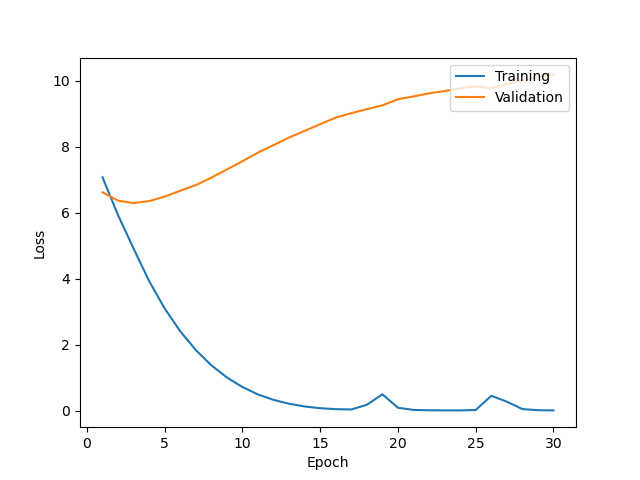
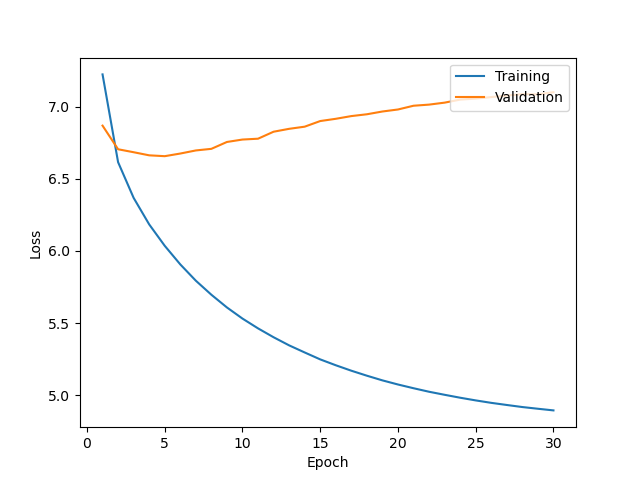
Initial commit

diff --git a/main.py b/main.py
@@ -25,15 +25,15 @@ class WordsDataset(Dataset):
         tokenizer = text.Tokenizer(oov_token=1, filters='')
         # Join 10 word sentence and 11th word by space
         tokenizer.fit_on_texts(' '.join(record) for record in records[:, 1:])
-        # TODO: check if we need +1 here
-        config.VOCAB_SIZE = len(tokenizer.word_index)
+        # Adding 1 to vocabulary size because of additional reserved padding index 0
+        config.VOCAB_SIZE = len(tokenizer.word_index) + 1
         return tokenizer
 
     @staticmethod
     def read_records(dataset_file):
         with open(dataset_file, mode='r', encoding='utf-8') as f:
             return np.array([
-                line.split(',') for line in 
+                line.split(',') for line in
                 (line.rstrip() for line in f.readlines())
             ])
 
@@ -73,7 +73,7 @@ class WordsDataset(Dataset):
 
         tokenized = np.asarray(self.__class__.tokenizer.texts_to_sequences(
             ' '.join(record) for record in records[:, 1:]
-        ), dtype=np.int)
+        ), dtype=np.int64)
 
         return {
             'category': [cat2id[record] for record in records[:, 0]],

diff --git a/config.py b/config.py
@@ -13,19 +13,25 @@ SUPERVISED = 0
 SEMI_SUPERVISED_PHASE_1 = 1
 SEMI_SUPERVISED_PHASE_2 = 2
 
-SUPERVISED_CLASSES = ('religion', 'computers', 'vehicles', 'sports', 'science')
+categories = {
+    'religion': {'soc.religion.christian'},
+    'computers': {'comp.graphics', 'comp.os.ms-windows.misc', 'comp.sys.ibm.pc.hardware'},
+    'vehicles': {'rec.autos', 'rec.motorcycles'},
+    'sports': {'rec.sport.baseball', 'rec.sport.hockey'},
+    'science': {'sci.med', 'sci.space'}
+}
 
-VOCAB_SIZE = 0
+VOCAB_SIZE = None
 EMBED_DIM = 512
 BATCH_SIZE = 512
 N_FEATURES = 10
 HIDDEN_DIM = 512
 
-NUM_WORKERS = 0  # TODO: Fix bug where NUM_WORKERS >= 4 leads to Winerror 1455
+NUM_WORKERS = 0  # TODO: Fix bug where NUM_WORKERS >= 4 leads to WinError 1455
 
 # Supervised (input: 10 words, output: category)
-SUPERVISED_NUM_CLASSES = len(SUPERVISED_CLASSES)
-SUPERVISED_N_EPOCHS = 30
+SUPERVISED_NUM_CLASSES = len(categories)
+SUPERVISED_N_EPOCHS = 0
 
 # Semi-supervised phase 1 (input: 10 words, output: 11th word)
 SEMI_SUPERVISED_PHASE_1_N_EPOCHS = 30

diff --git a/make_dataset.py b/make_dataset.py
@@ -1,4 +1,3 @@
-import os
 import random
 import re
 
@@ -34,7 +33,8 @@ if __name__ == '__main__':
 
     PATTERN_SENTENCE_END = re.compile(r'[.!?]+')
     PATTERN_WHITESPACE = re.compile(r'\s+')
-    PATTERN_NOISE = re.compile(r'[,"()[\]\\:^<=>$%&/`;*~_|#{}+-]+')
+    # TODO: Add \\=$%&/`;- to PATTERN_NOISE? If so: PATTERN_NOISE = re.compile(r'[,"()[\]\\:^<=>$%&/`;*~_|#{}+-]+')
+    PATTERN_NOISE = re.compile(r'[,"()[\]:^<>*~_|#{}+]+')
     ignore_sequences = {'---', '==', '\\\\', '//', '@'}
 
     # Keep track category each record is in

diff --git a/utils.py b/utils.py
@@ -1,4 +1,5 @@
 import os
+import config
 
 
 class cwd:
@@ -14,11 +15,7 @@ class cwd:
 
 
 def get_categories():
-    categories = {
-        'sports': {'rec.sport.baseball', 'rec.sport.hockey'},
-        'religion': {'alt.atheism', 'soc.religion.christian', 'talk.religion.misc'},
-        'computers': {'comp.graphics', 'comp.os.ms-windows.misc'},
-    }
+    categories = config.categories
 
     categories_flat = []
     id2cat = {}

diff --git a/training_testing.py b/training_testing.py
@@ -17,8 +17,6 @@ class Model(nn.Module):
         self.fc = nn.Linear(hidden_dim, num_class)
 
     def forward(self, x):
-        x = x.long()  # self.embedding(x) expects x of type LongTensor
-
         embedded = self.embedding(x)
         _, (last_hidden_state, _) = self.lstm(embedded)
         linear_input = last_hidden_state[-1]
